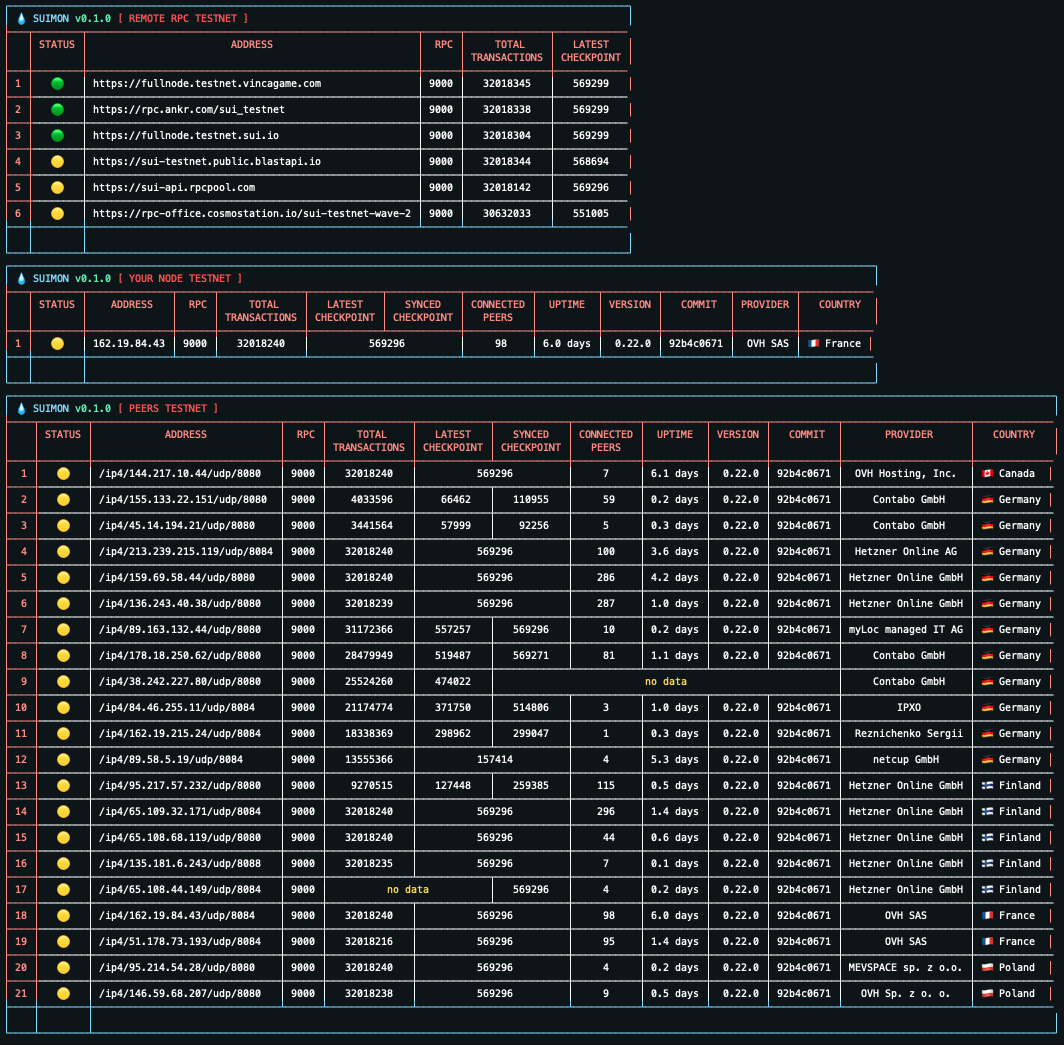
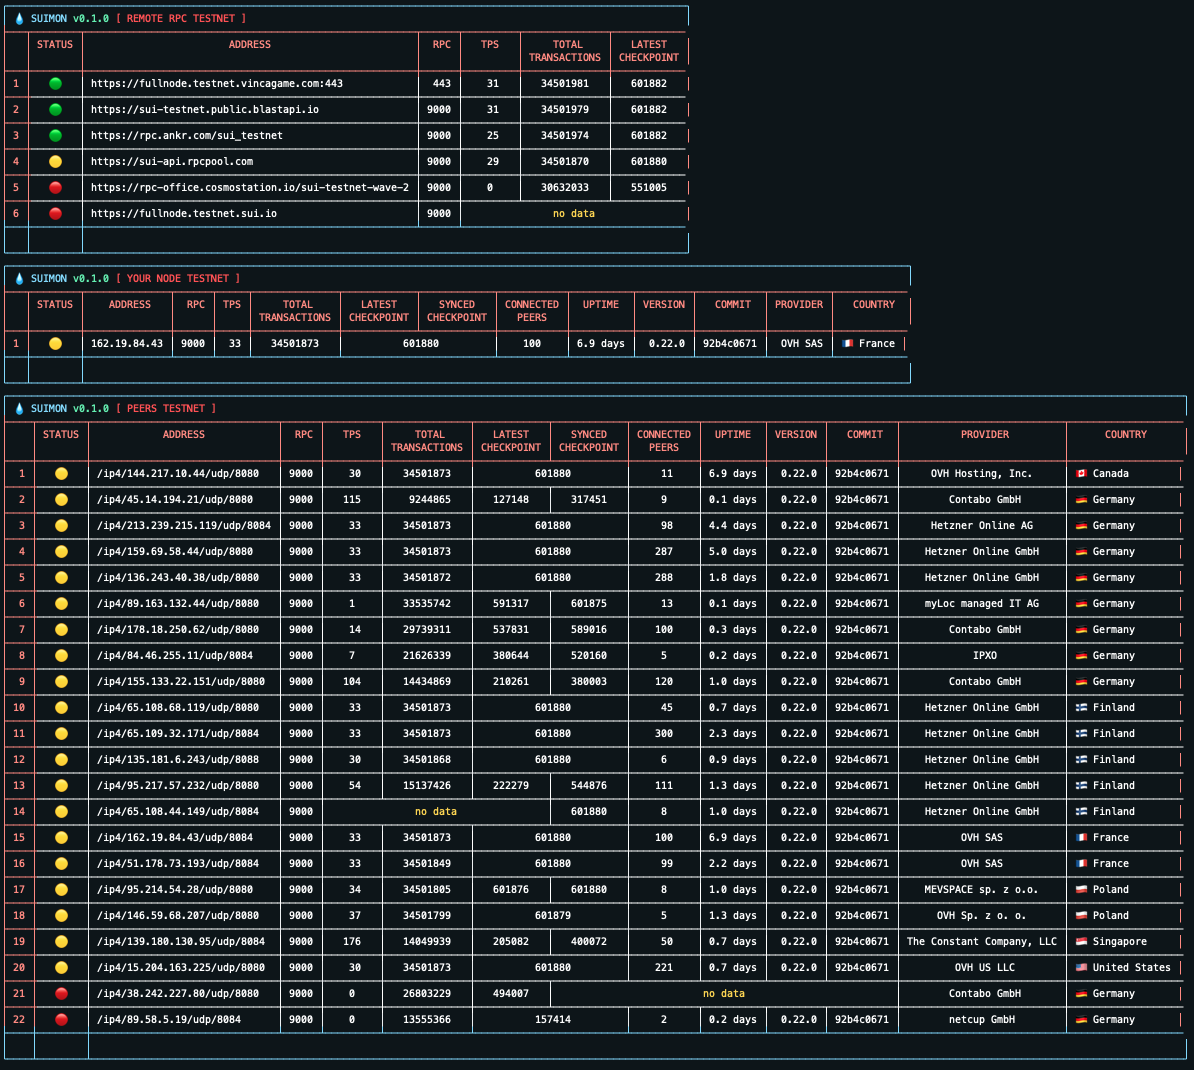
Added TPS to the tables

diff --git a/suimon/cmd/checker/host_get_metrics.go b/suimon/cmd/checker/host_get_metrics.go
@@ -15,6 +15,8 @@ import (
 	"github.com/bartosian/sui_helpers/suimon/cmd/checker/enums"
 )
 
+const transactionsPerSecondTimeout = 10
+
 func (host *Host) GetMetrics(httpClient *http.Client) {
 	metricsURL := host.getUrl(requestTypeMetrics, false)
 
@@ -72,28 +74,60 @@ func (host *Host) GetMetrics(httpClient *http.Client) {
 	}
 }
 
-func (host *Host) GetTotalTransactionNumber() {
-	if result := getRequestAttempt(host.rpcHttpClient, enums.RPCMethodGetTotalTransactionNumber); result != nil {
-		host.Metrics.SetValue(enums.MetricTypeTotalTransactionsNumber, *result)
+func (host *Host) GetTPS() {
+	var (
+		transactionsNow       *string
+		transactionsNowInt    int
+		transactionsBefore    = host.Metrics.TotalTransactionNumber
+		transactionsBeforeInt int
+		err                   error
+	)
 
+	if transactionsBefore == "" {
 		return
 	}
 
-	if result := getRequestAttempt(host.rpcHttpsClient, enums.RPCMethodGetTotalTransactionNumber); result != nil {
-		host.Metrics.SetValue(enums.MetricTypeTotalTransactionsNumber, *result)
+	if transactionsNow = getRequestAttempt(host.rpcHttpClient, enums.RPCMethodGetTotalTransactionNumber); transactionsNow == nil {
+		if transactionsNow = getRequestAttempt(host.rpcHttpsClient, enums.RPCMethodGetTotalTransactionNumber); transactionsNow == nil {
+			return
+		}
 	}
+
+	if transactionsNowInt, err = strconv.Atoi(*transactionsNow); err != nil {
+		return
+	}
+
+	if transactionsBeforeInt, err = strconv.Atoi(transactionsBefore); err != nil {
+		return
+	}
+
+	tps := (transactionsNowInt - transactionsBeforeInt) / transactionsPerSecondTimeout
+
+	host.Metrics.SetValue(enums.MetricTypeTransactionsPerSecond, fmt.Sprintf("%d", tps))
+}
+
+func (host *Host) GetTotalTransactionNumber() {
+	var result *string
+
+	if result = getRequestAttempt(host.rpcHttpClient, enums.RPCMethodGetTotalTransactionNumber); result == nil {
+		if result = getRequestAttempt(host.rpcHttpsClient, enums.RPCMethodGetTotalTransactionNumber); result == nil {
+			return
+		}
+	}
+
+	host.Metrics.SetValue(enums.MetricTypeTotalTransactionsNumber, *result)
 }
 
 func (host *Host) GetLatestCheckpoint() {
-	if result := getRequestAttempt(host.rpcHttpClient, enums.RPCMethodGetLatestCheckpointSequenceNumber); result != nil {
-		host.Metrics.SetValue(enums.MetricTypeLatestCheckpoint, *result)
+	var result *string
 
-		return
+	if result = getRequestAttempt(host.rpcHttpClient, enums.RPCMethodGetLatestCheckpointSequenceNumber); result == nil {
+		if result = getRequestAttempt(host.rpcHttpsClient, enums.RPCMethodGetLatestCheckpointSequenceNumber); result == nil {
+			return
+		}
 	}
 
-	if result := getRequestAttempt(host.rpcHttpsClient, enums.RPCMethodGetLatestCheckpointSequenceNumber); result != nil {
-		host.Metrics.SetValue(enums.MetricTypeLatestCheckpoint, *result)
-	}
+	host.Metrics.SetValue(enums.MetricTypeLatestCheckpoint, *result)
 }
 
 func getRequestAttempt(client jsonrpc.RPCClient, method enums.RPCMethod) *string {

diff --git a/suimon/cmd/checker/metrics.go b/suimon/cmd/checker/metrics.go
@@ -13,6 +13,7 @@ type (
 	Metrics struct {
 		Updated bool
 
+		TransactionsPerSecond   string
 		TotalTransactionNumber  string
 		HighestSyncedCheckpoint string
 		LatestCheckpoint        string
@@ -37,6 +38,8 @@ func (metrics *Metrics) SetValue(metric enums.MetricType, value string) {
 		metrics.HighestSyncedCheckpoint = value
 	case enums.MetricTypeSuiNetworkPeers:
 		metrics.SuiNetworkPeers = value
+	case enums.MetricTypeTransactionsPerSecond:
+		metrics.TransactionsPerSecond = value
 	case enums.MetricTypeTotalTransactionsNumber:
 		metrics.TotalTransactionNumber = value
 	case enums.MetricTypeLatestCheckpoint:
@@ -62,15 +65,19 @@ func (metrics *Metrics) IsHealthy(metric enums.MetricType, valueRPC string) bool
 	case enums.MetricTypeTotalTransactionsNumber:
 		values := convertToInt(metrics.TotalTransactionNumber, valueRPC)
 
-		return values[0] >= values[1]-100
+		return len(values) == 2 && (values[0] >= values[1]-100)
+	case enums.MetricTypeTransactionsPerSecond:
+		values := convertToInt(metrics.TransactionsPerSecond, valueRPC)
+
+		return len(values) == 2 && (values[0] != 0 || values[1] == 0)
 	case enums.MetricTypeLatestCheckpoint:
 		values := convertToInt(metrics.LatestCheckpoint, valueRPC)
 
-		return values[0] >= values[1]-10
+		return len(values) == 2 && (values[0] >= values[1]-10)
 	case enums.MetricTypeHighestSyncedCheckpoint:
 		values := convertToInt(metrics.HighestSyncedCheckpoint, valueRPC)
 
-		return values[0] >= values[1]-10
+		return len(values) == 2 && (values[0] >= values[1]-10)
 	case enums.MetricTypeVersion:
 		return metrics.Version == valueRPC
 	}

diff --git a/suimon/cmd/checker/enums/metrictype.go b/suimon/cmd/checker/enums/metrictype.go
@@ -14,6 +14,7 @@ const (
 	MetricTypeCommit                  MetricType = "COMMIT"
 	MetricTypeHighestSyncedCheckpoint MetricType = "HIGHEST_SYNCED_CHECKPOINT"
 	MetricTypeSuiNetworkPeers         MetricType = "SUI_NETWORK_PEERS"
+	MetricTypeTransactionsPerSecond   MetricType = "TRANSACTIONS_PER_SECOND"
 	MetricTypeTotalTransactionsNumber MetricType = "TOTAL_TRANSACTIONS_NUMBER"
 	MetricTypeLatestCheckpoint        MetricType = "LATEST_CHECKPOINT"
 )
@@ -35,6 +36,7 @@ func MetricTypeFromString(value string) (MetricType, error) {
 		"COMMIT":                    MetricTypeCommit,
 		"HIGHEST_SYNCED_CHECKPOINT": MetricTypeHighestSyncedCheckpoint,
 		"SUI_NETWORK_PEERS":         MetricTypeSuiNetworkPeers,
+		"TRANSACTIONS_PER_SECOND":   MetricTypeTransactionsPerSecond,
 		"TOTAL_TRANSACTIONS_NUMBER": MetricTypeTotalTransactionsNumber,
 		"LATEST_CHECKPOINT":         MetricTypeLatestCheckpoint,
 	}[value]

diff --git a/suimon/cmd/checker/host.go b/suimon/cmd/checker/host.go
@@ -71,13 +71,24 @@ func (host *Host) SetStatus(tableType enums.TableType, rpc Host) {
 			status = enums.StatusYellow
 		}
 	case true:
+		if metricsHost.TotalTransactionNumber != "" &&
+			metricsHost.IsUnhealthy(enums.MetricTypeTransactionsPerSecond, metricsRPC.TransactionsPerSecond) {
+			status = enums.StatusRed
+
+			break
+		}
+
 		if metricsHost.TotalTransactionNumber == "" || metricsHost.LatestCheckpoint == "" {
 			status = enums.StatusRed
 
 			if tableType == enums.TableTypePeers {
 				status = enums.StatusYellow
 			}
-		} else if metricsHost.IsUnhealthy(enums.MetricTypeTotalTransactionsNumber, metricsRPC.TotalTransactionNumber) ||
+
+			break
+		}
+
+		if metricsHost.IsUnhealthy(enums.MetricTypeTotalTransactionsNumber, metricsRPC.TotalTransactionNumber) ||
 			metricsHost.IsUnhealthy(enums.MetricTypeLatestCheckpoint, metricsRPC.LatestCheckpoint) {
 			status = enums.StatusYellow
 		}

diff --git a/suimon/cmd/checker/tablebuilder/tables/suinode.go b/suimon/cmd/checker/tablebuilder/tables/suinode.go
@@ -11,6 +11,7 @@ const (
 	ColumnNameSUINodeStatus ColumnNameSUINode = iota
 	ColumnNameSUINodeAddress
 	ColumnNameSUINodePortRPC
+	ColumnNameSUINodeTransactionsPerSecond
 	ColumnNameSUINodeTotalTransactions
 	ColumnNameSUINodeLatestCheckpoint
 	ColumnNameSUINodeHighestCheckpoint
@@ -49,6 +50,14 @@ var (
 		},
 		ColumnNameSUINodePortRPC: {
 			Name:         "RPC",
+			Align:        text.AlignCenter,
+			AlignHeader:  text.AlignCenter,
+			VAlign:       text.VAlignMiddle,
+			VAlignHeader: text.VAlignMiddle,
+			Hidden:       false,
+		},
+		ColumnNameSUINodeTransactionsPerSecond: {
+			Name:         "TPS",
 			Align:        text.AlignCenter,
 			AlignHeader:  text.AlignCenter,
 			VAlign:       text.VAlignMiddle,

diff --git a/suimon/cmd/checker/checker.go b/suimon/cmd/checker/checker.go
@@ -11,6 +11,7 @@ import (
 	"github.com/bartosian/sui_helpers/suimon/cmd/checker/config"
 	"github.com/bartosian/sui_helpers/suimon/cmd/checker/enums"
 	"github.com/bartosian/sui_helpers/suimon/cmd/checker/tablebuilder"
+	"github.com/bartosian/sui_helpers/suimon/pkg/log"
 )
 
 const (
@@ -35,6 +36,8 @@ type (
 		tableBuilderRPC  *tablebuilder.TableBuilder
 
 		tableConfig tablebuilder.TableConfig
+
+		logger log.Logger
 	}
 )
 
@@ -51,6 +54,7 @@ func NewChecker(suimonConfig config.SuimonConfig, nodeConfig config.NodeConfig, 
 		ipClient:     ipClient,
 		suimonConfig: suimonConfig,
 		nodeConfig:   nodeConfig,
+		logger:       log.NewLogger(),
 	}, nil
 }
 

diff --git a/suimon/cmd/checker/checker_init_tables.go b/suimon/cmd/checker/checker_init_tables.go
@@ -73,6 +73,7 @@ func (checker *Checker) InitTable(tableType enums.TableType) {
 		columns[tables.ColumnNameSUINodeStatus].SetValue(status)
 		columns[tables.ColumnNameSUINodeAddress].SetValue(address)
 		columns[tables.ColumnNameSUINodePortRPC].SetValue(port)
+		columns[tables.ColumnNameSUINodeTransactionsPerSecond].SetValue(host.Metrics.TransactionsPerSecond)
 		columns[tables.ColumnNameSUINodeTotalTransactions].SetValue(host.Metrics.TotalTransactionNumber)
 		columns[tables.ColumnNameSUINodeLatestCheckpoint].SetValue(host.Metrics.LatestCheckpoint)
 

diff --git a/suimon/pkg/progress/progress.go b/suimon/pkg/progress/progress.go
@@ -26,7 +26,7 @@ func NewProgressBar(action string, color Color) chan<- struct{} {
 		progressbar.OptionShowBytes(false),
 		progressbar.OptionClearOnFinish(),
 		progressbar.OptionSetWidth(30),
-		progressbar.OptionSetDescription(fmt.Sprintf("%s [ %s... ]", color, action)),
+		progressbar.OptionSetDescription(fmt.Sprintf("%s [ %s... ] [reset]", color, action)),
 		progressbar.OptionSetTheme(progressbar.Theme{
 			Saucer:        "=",
 			SaucerHead:    ">>",

diff --git a/suimon/cmd/checker/checker_create_hosts.go b/suimon/cmd/checker/checker_create_hosts.go
@@ -2,6 +2,7 @@ package checker
 
 import (
 	"sync"
+	"time"
 )
 
 func (checker *Checker) createHosts(addresses []AddressInfo) ([]Host, error) {
@@ -35,6 +36,10 @@ func (checker *Checker) createHosts(addresses []AddressInfo) ([]Host, error) {
 
 			go func() {
 				host.GetTotalTransactionNumber()
+
+				time.Sleep(transactionsPerSecondTimeout * time.Second)
+
+				host.GetTPS()
 
 				doneCH <- struct{}{}
 			}()

diff --git a/suimon/main.go b/suimon/main.go
@@ -38,13 +38,13 @@ func main() {
 
 	logger := log.NewLogger()
 
-	defer func() {
-		if err := recover(); err != nil {
-			logger.Error("failed to execute suimon, please check an issue: ", err)
-		}
-
-		return
-	}()
+	//defer func() {
+	//	if err := recover(); err != nil {
+	//		logger.Error("failed to execute suimon, please check an issue: ", err)
+	//	}
+	//
+	//	return
+	//}()
 
 	printLogo()
 
